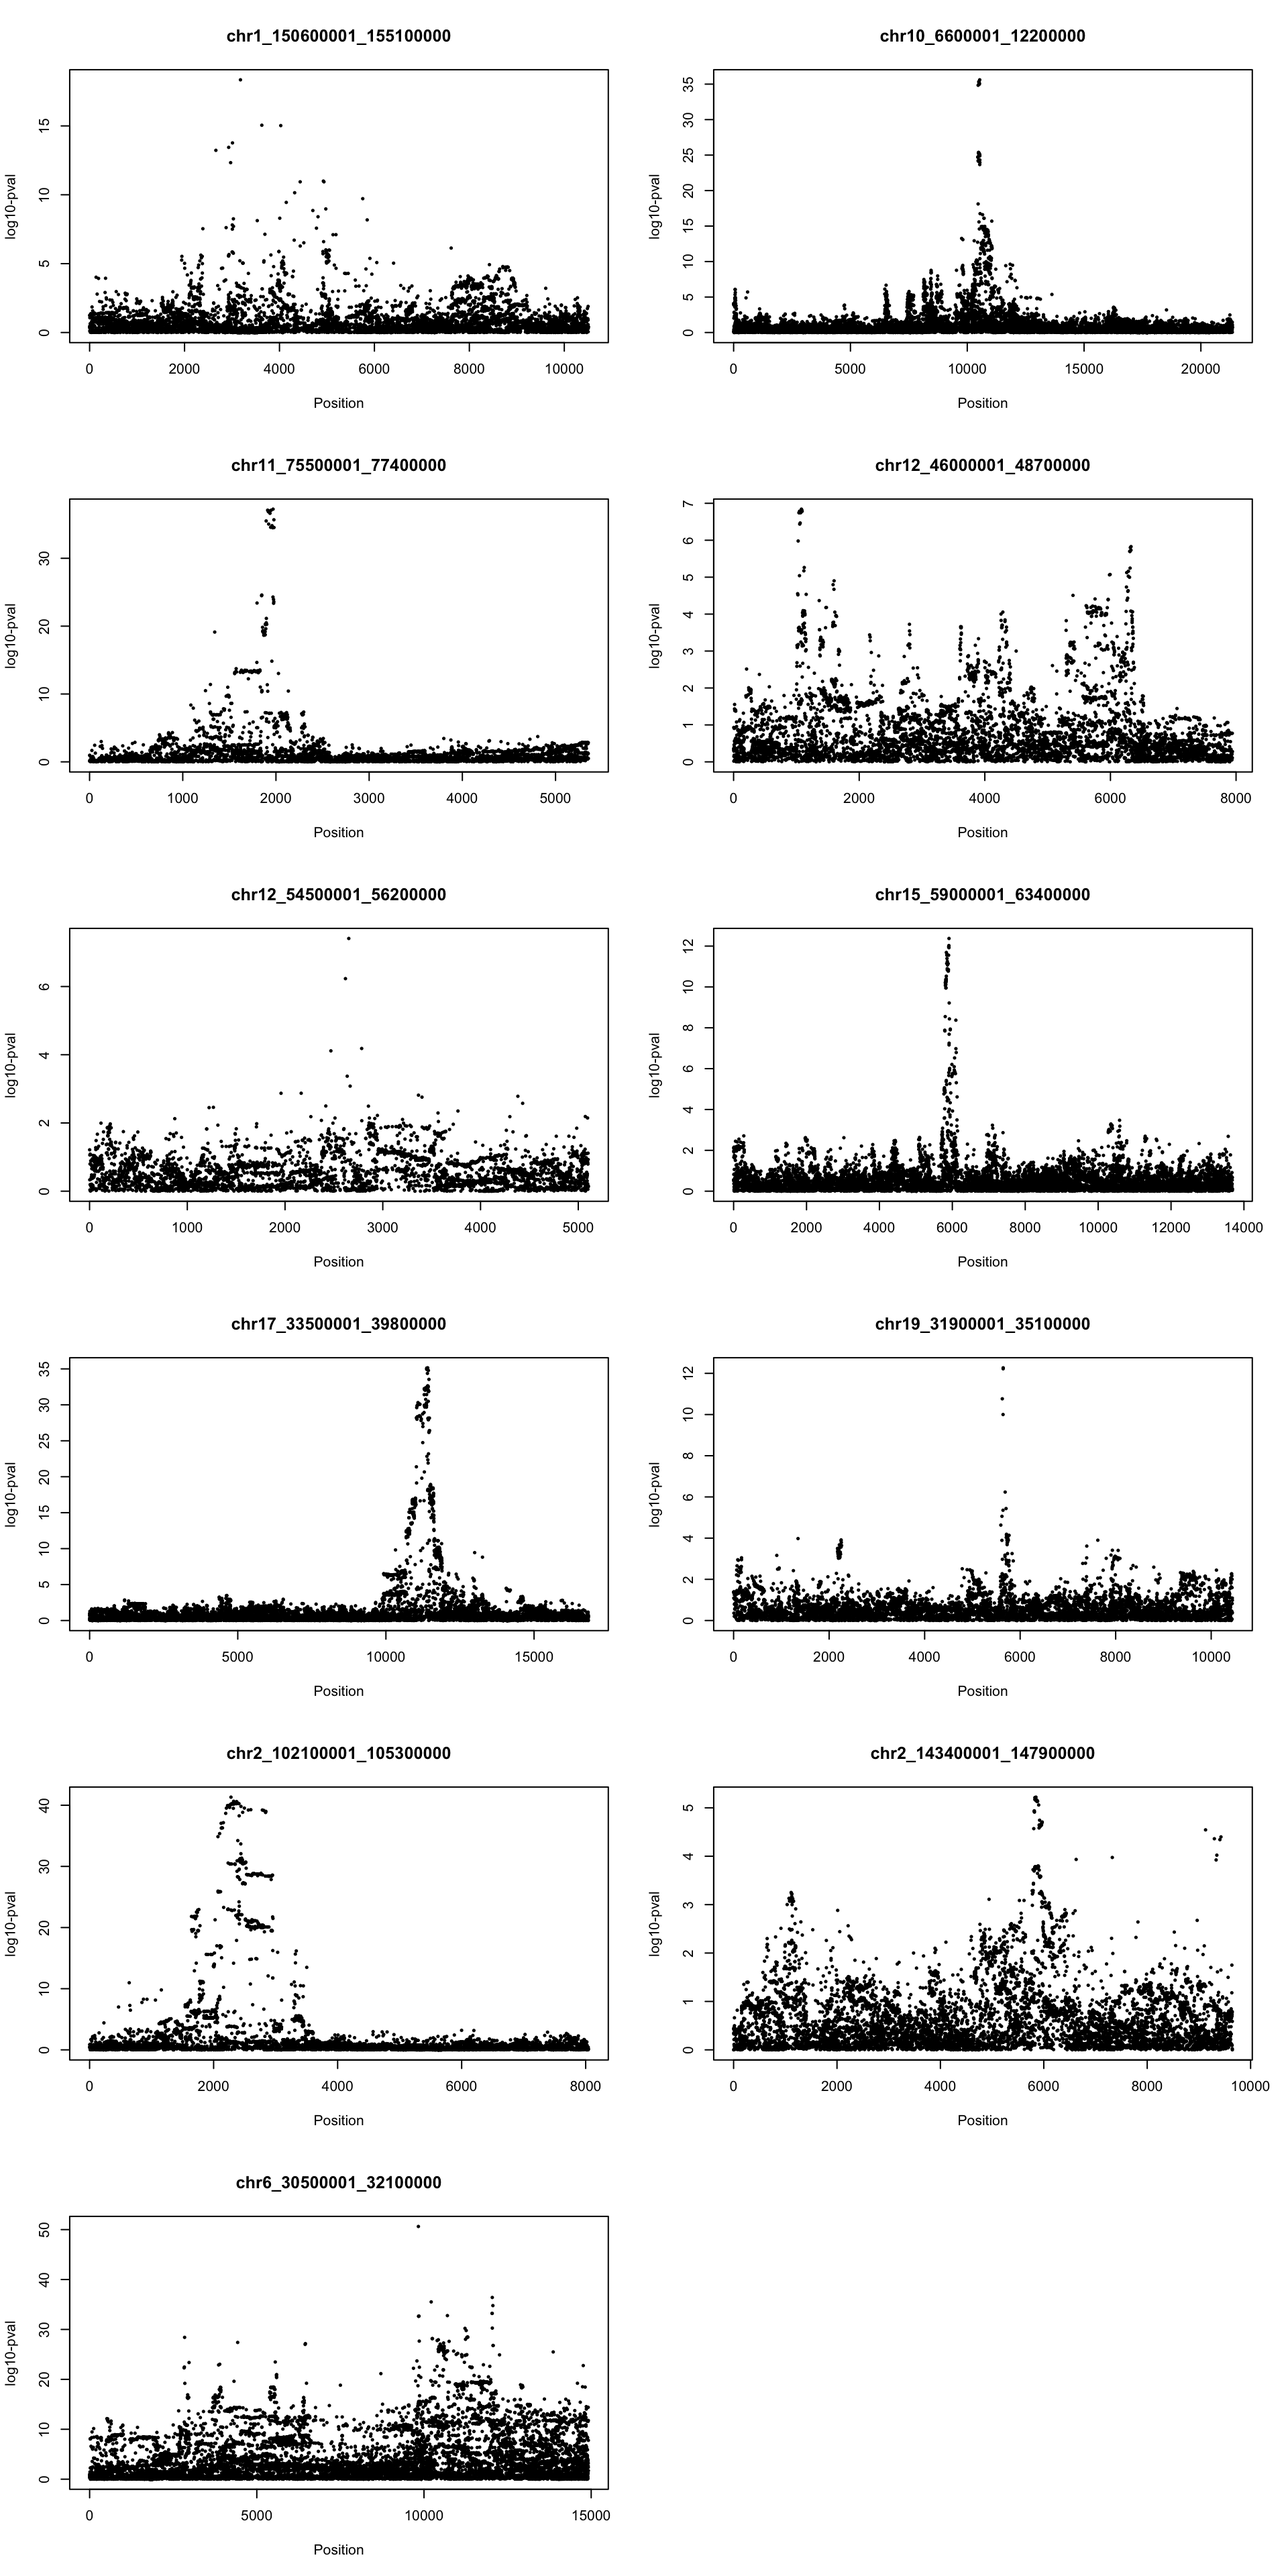
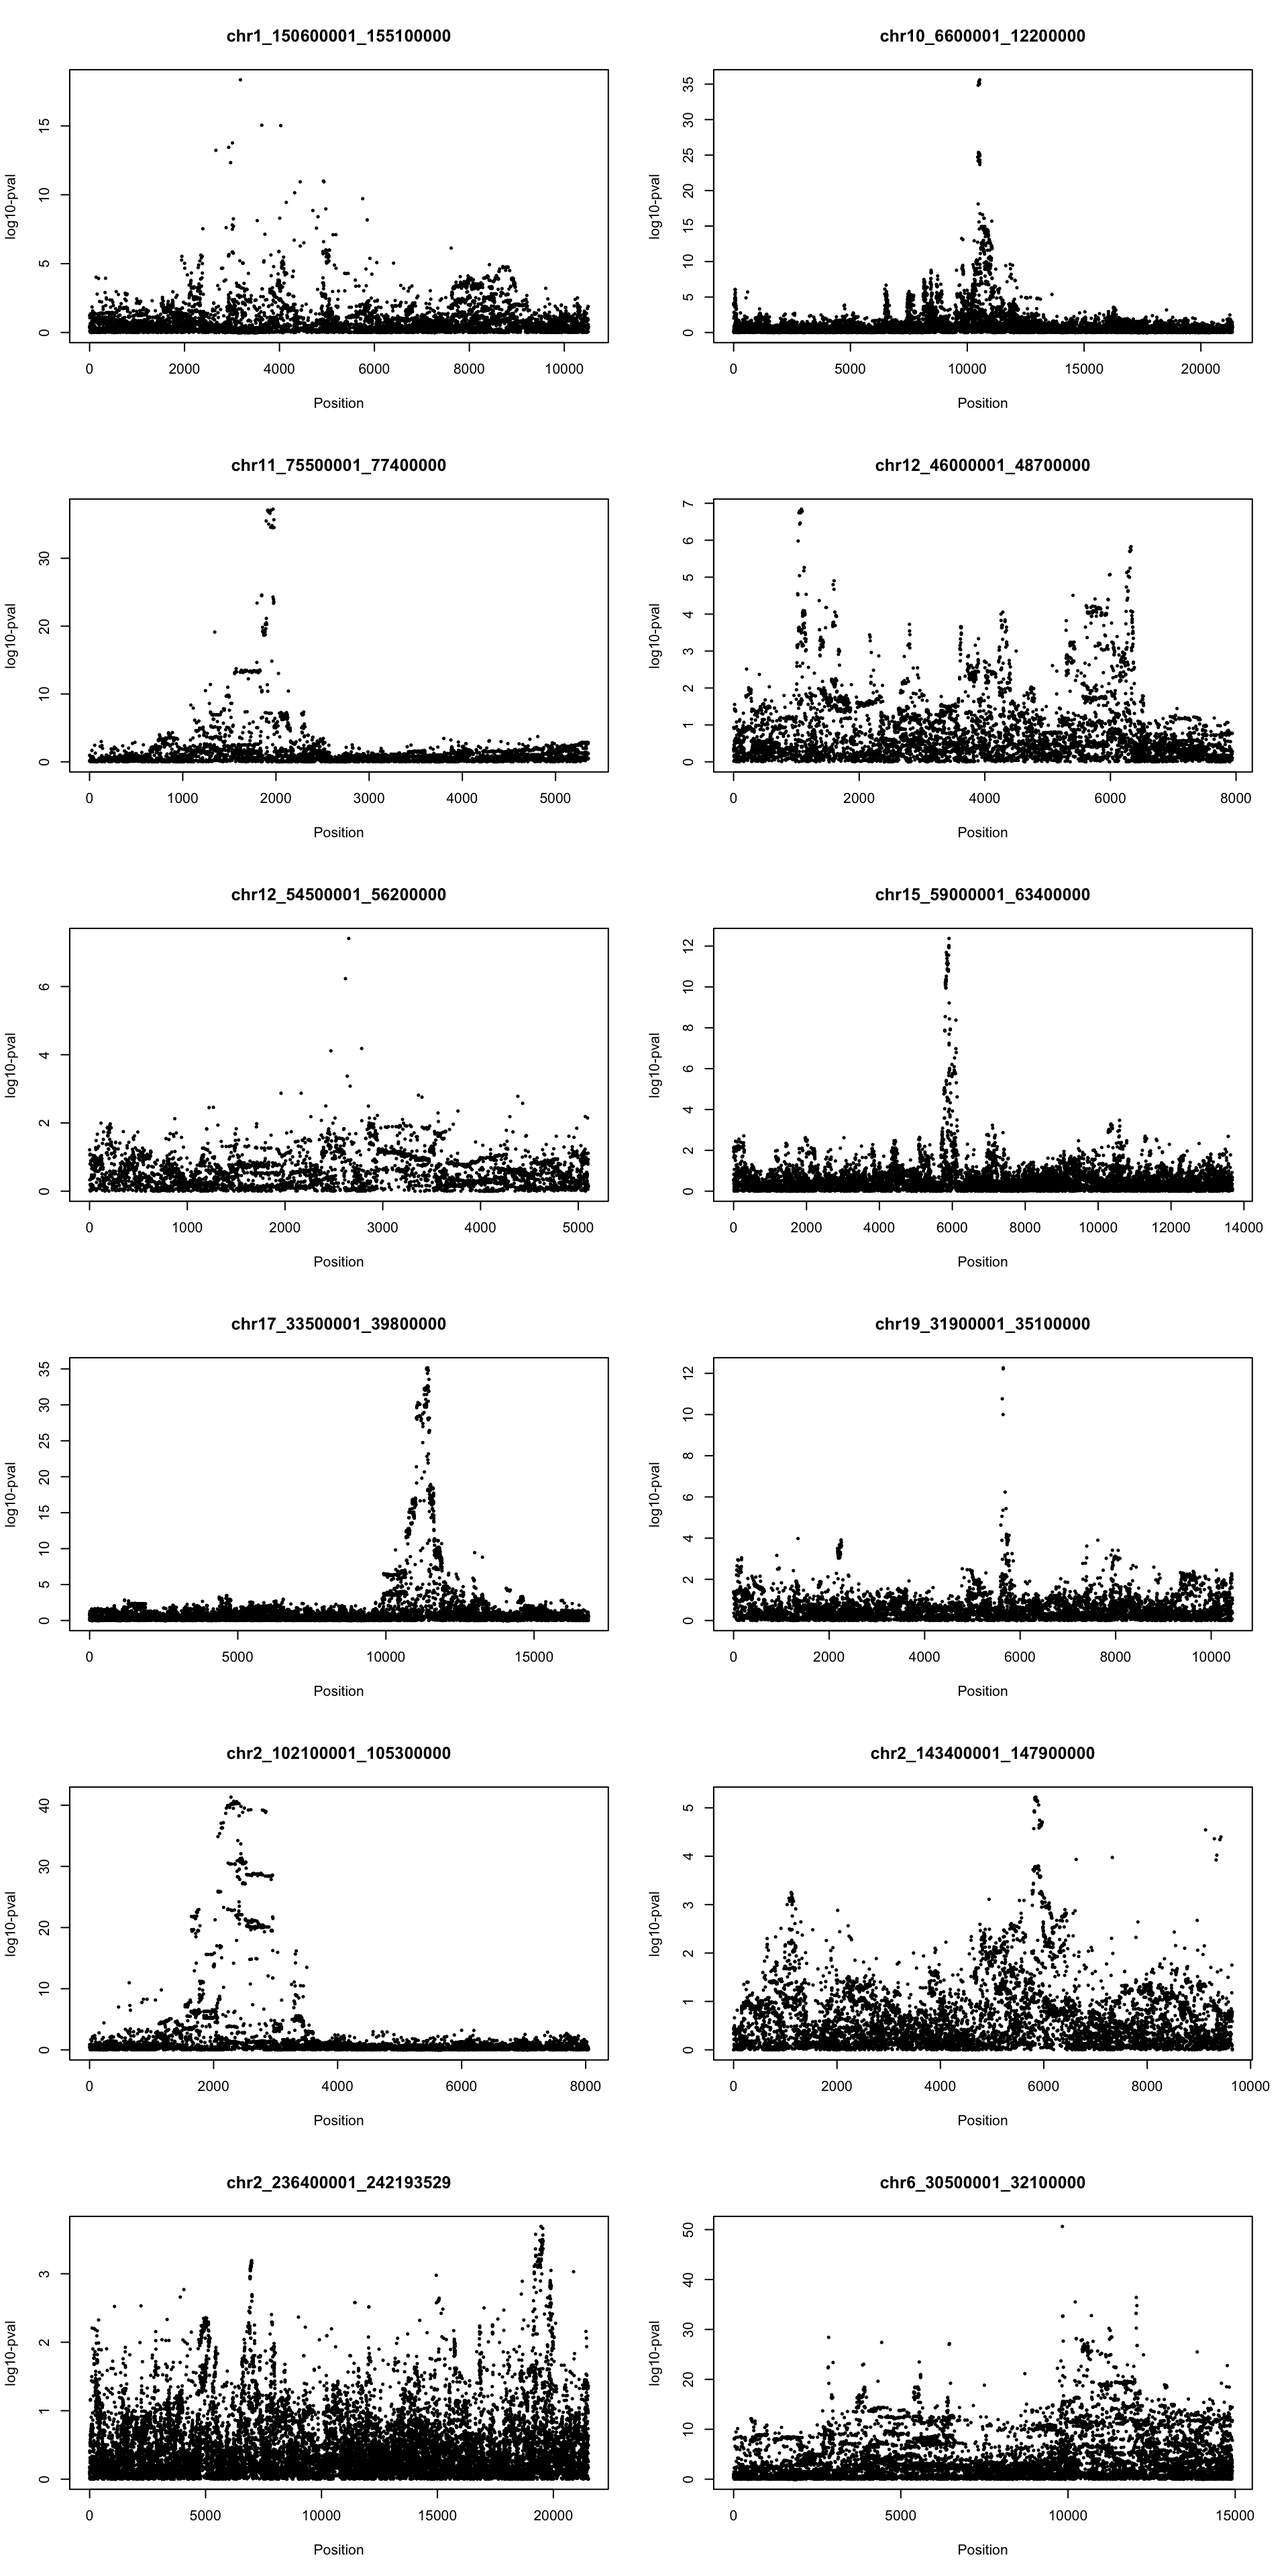
Build site.

diff --git a/docs/gwas_asthma.html b/docs/gwas_asthma.html
@@ -384,7 +384,7 @@ div.tocify {
 <div class="tab-content">
 <div id="summary" class="tab-pane fade in active">
 <p>
-<strong>Last updated:</strong> 2024-06-18
+<strong>Last updated:</strong> 2024-07-03
 </p>
 <p>
 <strong>Checks:</strong> <span class="glyphicon glyphicon-ok text-success" aria-hidden="true"></span> 7 <span class="glyphicon glyphicon-exclamation-sign text-danger" aria-hidden="true"></span> 0
@@ -475,16 +475,16 @@ This reproducible <a href="http://rmarkdown.rstudio.com">R Markdown</a> analysis
 <div class="panel panel-default">
 <div class="panel-heading">
 <p class="panel-title">
-<a data-toggle="collapse" data-parent="#workflowr-checks" href="#strongRepositoryversionstrongahrefhttpsgithubcomyunqiyang0215survivaldataanalysistree25f958e5c96339f80014ccf8f79c730e802cc3e1targetblank25f958ea"> <span class="glyphicon glyphicon-ok text-success" aria-hidden="true"></span> <strong>Repository version:</strong> <a href="https://github.com/yunqiyang0215/survival-data-analysis/tree/25f958e5c96339f80014ccf8f79c730e802cc3e1" target="_blank">25f958e</a> </a>
+<a data-toggle="collapse" data-parent="#workflowr-checks" href="#strongRepositoryversionstrongahrefhttpsgithubcomyunqiyang0215survivaldataanalysistreee93f1a6899b7c8bb9f6c2e4d3d9da0bddac24e23targetblanke93f1a6a"> <span class="glyphicon glyphicon-ok text-success" aria-hidden="true"></span> <strong>Repository version:</strong> <a href="https://github.com/yunqiyang0215/survival-data-analysis/tree/e93f1a6899b7c8bb9f6c2e4d3d9da0bddac24e23" target="_blank">e93f1a6</a> </a>
 </p>
 </div>
[2 lines of base64/hex data omitted]
 <div class="panel-body">
 <p>
 Great! You are using Git for version control. Tracking code development and connecting the code version to the results is critical for reproducibility.
 </p>
 <p>
-The results in this page were generated with repository version <a href="https://github.com/yunqiyang0215/survival-data-analysis/tree/25f958e5c96339f80014ccf8f79c730e802cc3e1" target="_blank">25f958e</a>. See the <em>Past versions</em> tab to see a history of the changes made to the R Markdown and HTML files.
+The results in this page were generated with repository version <a href="https://github.com/yunqiyang0215/survival-data-analysis/tree/e93f1a6899b7c8bb9f6c2e4d3d9da0bddac24e23" target="_blank">e93f1a6</a>. See the <em>Past versions</em> tab to see a history of the changes made to the R Markdown and HTML files.
 </p>
 <p>
 Note that you need to be careful to ensure that all relevant files for the analysis have been committed to Git prior to generating the results (you can use <code>wflow_publish</code> or <code>wflow_git_commit</code>). workflowr only checks the R Markdown file, but you know if there are other scripts or data files that it depends on. Below is the status of the Git repository when the results were generated:
@@ -494,9 +494,7 @@ Ignored files:
     Ignored:    .DS_Store
     Ignored:    .Rhistory
     Ignored:    .Rproj.user/
-
-Unstaged changes:
-    Deleted:    analysis/logistic_gwas_asthma.Rmd
+    Ignored:    analysis/figure/
 
 </code></pre>
 <p>
@@ -535,6 +533,40 @@ Message
 </tr>
 </thead>
 <tbody>
+<tr>
+<td>
+Rmd
+</td>
+<td>
+<a href="https://github.com/yunqiyang0215/survival-data-analysis/blob/e93f1a6899b7c8bb9f6c2e4d3d9da0bddac24e23/analysis/gwas_asthma.Rmd" target="_blank">e93f1a6</a>
+</td>
+<td>
+yunqiyang0215
+</td>
+<td>
+2024-07-03
+</td>
+<td>
+wflow_publish("analysis/gwas_asthma.Rmd")
+</td>
+</tr>
+<tr>
+<td>
+html
+</td>
+<td>
+<a href="https://rawcdn.githack.com/yunqiyang0215/survival-data-analysis/7c1eda43054c992b1ba223f994597fd7e5e2efe1/docs/gwas_asthma.html" target="_blank">7c1eda4</a>
+</td>
+<td>
+yunqiyang0215
+</td>
+<td>
+2024-06-18
+</td>
+<td>
+Build site.
+</td>
+</tr>
 <tr>
 <td>
 Rmd
@@ -786,6 +818,8 @@ wflow_publish("analysis/gwas_asthma.Rmd")
 <li><p>Logistic gwas result for all asthma, childhood asthma and adulthood asthma</p></li>
 <li><p>Survival gwas result for all asthma, childhood asthma and adulthood asthma</p></li>
 <li><p>Compare logistic and survival gwas on all asthma</p></li>
+<li><p>Compare logistic and survival gwas on COA</p></li>
+<li><p>Compare logistic and survival gwas on AOA</p></li>
 </ol>
 <pre class="r"><code>library(stringr)</code></pre>
 <div id="logistic-gwas" class="section level3">
@@ -930,6 +964,17 @@ Date
 <tbody>
 <tr>
 <td>
+<a href="https://github.com/yunqiyang0215/survival-data-analysis/blob/7c1eda43054c992b1ba223f994597fd7e5e2efe1/docs/figure/gwas_asthma.Rmd/unnamed-chunk-6-1.png" target="_blank">7c1eda4</a>
+</td>
+<td>
+yunqiyang0215
+</td>
+<td>
+2024-06-18
+</td>
+</tr>
+<tr>
+<td>
 <a href="https://github.com/yunqiyang0215/survival-data-analysis/blob/1455c77adaddd0aa8f45c79e5535249c3e039637/docs/figure/gwas_asthma.Rmd/unnamed-chunk-6-1.png" target="_blank">1455c77</a>
 </td>
 <td>
@@ -1001,6 +1046,17 @@ Date
 </tr>
 </thead>
 <tbody>
+<tr>
+<td>
+<a href="https://github.com/yunqiyang0215/survival-data-analysis/blob/7c1eda43054c992b1ba223f994597fd7e5e2efe1/docs/figure/gwas_asthma.Rmd/unnamed-chunk-7-1.png" target="_blank">7c1eda4</a>
+</td>
+<td>
+yunqiyang0215
+</td>
+<td>
+2024-06-18
+</td>
+</tr>
 <tr>
 <td>
 <a href="https://github.com/yunqiyang0215/survival-data-analysis/blob/1455c77adaddd0aa8f45c79e5535249c3e039637/docs/figure/gwas_asthma.Rmd/unnamed-chunk-7-1.png" target="_blank">1455c77</a>
@@ -1091,6 +1147,17 @@ Date
 <tbody>
 <tr>
 <td>
+<a href="https://github.com/yunqiyang0215/survival-data-analysis/blob/7c1eda43054c992b1ba223f994597fd7e5e2efe1/docs/figure/gwas_asthma.Rmd/unnamed-chunk-9-1.png" target="_blank">7c1eda4</a>
+</td>
+<td>
+yunqiyang0215
+</td>
+<td>
+2024-06-18
+</td>
+</tr>
+<tr>
+<td>
 <a href="https://github.com/yunqiyang0215/survival-data-analysis/blob/1455c77adaddd0aa8f45c79e5535249c3e039637/docs/figure/gwas_asthma.Rmd/unnamed-chunk-9-1.png" target="_blank">1455c77</a>
 </td>
 <td>
@@ -1137,6 +1204,64 @@ yunqiyang0215
 </table>
 </div>
 </div>
+</div>
+<div id="compare-logistic-gwas-and-survival-gwas-on-coa" class="section level3">
+<h3>4. Compare logistic gwas and survival gwas on COA</h3>
+<pre class="r"><code>file.logistic &lt;- list.files(path=&quot;/Users/nicholeyang/Downloads/survivalsusie/data/gwas_logistic_out/coa&quot;, pattern = &quot;\\.glm\\.logistic$&quot;, full.names = TRUE)
+file.survival &lt;- list.files(path = &quot;/Users/nicholeyang/Downloads/survivalsusie/result/gwas_surv&quot;, pattern = &quot;^coa.*\\.rds$&quot;, full.names = TRUE)</code></pre>
+<pre class="r"><code>par(mfrow = c(6,2))
+
+pattern &lt;- &quot;chr[0-9XYM]+_[0-9]+_[0-9]+&quot;
+for (i in 1:length(file.survival)){
+  region = file.survival[i]
+  region_name = str_extract(region, pattern)
+
+  path.logistic = paste0(&quot;/Users/nicholeyang/Downloads/survivalsusie/data/gwas_logistic_out/coa/gwas_&quot;, 
+                         region_name, &quot;.asthma_coa.glm.logistic&quot;)
+  
+  # read in gwas results
+  gwas.logistic = read.csv(path.logistic, header = TRUE, sep = &quot;\t&quot;)
+  gwas.survival = data.frame(readRDS(region))
+  
+  # merge two datasets
+  snp_ids = sapply(rownames(gwas.survival), function(x) unlist(strsplit(x, &quot;_&quot;))[1])
+  gwas.survival$ID = snp_ids
+  dat = merge(gwas.logistic, gwas.survival, by = &quot;ID&quot;)
+  plot(dat$POS, -log10(dat$P), pch = 20, cex = 0.5, main = region_name, ylab = &quot;log10-pval&quot;, xlab = &quot;Position&quot;, ylim = c(0, max(-log10(dat$P), -log10(dat$p.value.spa), na.rm = TRUE) + 1), col = &quot;#de2d26&quot;)
+  points(dat$POS, -log10(dat$p.value.spa), pch = 20, cex = 0.5)
+  
+  legend(&quot;topright&quot;, legend = c(&quot;logistic.gwas&quot;, &quot;survival.gwas&quot;), col = c(&quot;#de2d26&quot;, 1), pch = 20)
+}</code></pre>
+<p><img src="figure/gwas_asthma.Rmd/unnamed-chunk-11-1.png" width="960" style="display: block; margin: auto;" /></p>
+</div>
+<div id="compare-logistic-gwas-and-survival-gwas-on-aoa" class="section level3">
+<h3>5. Compare logistic gwas and survival gwas on AOA</h3>
+<pre class="r"><code>file.logistic &lt;- list.files(path=&quot;/Users/nicholeyang/Downloads/survivalsusie/data/gwas_logistic_out/aoa&quot;, pattern = &quot;\\.glm\\.logistic$&quot;, full.names = TRUE)
+file.survival &lt;- list.files(path = &quot;/Users/nicholeyang/Downloads/survivalsusie/result/gwas_surv&quot;, pattern = &quot;^aoa.*\\.rds$&quot;, full.names = TRUE)</code></pre>
+<pre class="r"><code>par(mfrow = c(6,2))
+
+pattern &lt;- &quot;chr[0-9XYM]+_[0-9]+_[0-9]+&quot;
+for (i in 1:length(file.survival)){
+  region = file.survival[i]
+  region_name = str_extract(region, pattern)
+
+  path.logistic = paste0(&quot;/Users/nicholeyang/Downloads/survivalsusie/data/gwas_logistic_out/aoa/gwas_&quot;, 
+                         region_name, &quot;.asthma_aoa.glm.logistic&quot;)
+  
+  # read in gwas results
+  gwas.logistic = read.csv(path.logistic, header = TRUE, sep = &quot;\t&quot;)
+  gwas.survival = data.frame(readRDS(region))
+  
+  # merge two datasets
+  snp_ids = sapply(rownames(gwas.survival), function(x) unlist(strsplit(x, &quot;_&quot;))[1])
+  gwas.survival$ID = snp_ids
+  dat = merge(gwas.logistic, gwas.survival, by = &quot;ID&quot;)
+  plot(dat$POS, -log10(dat$P), pch = 20, cex = 0.5, main = region_name, ylab = &quot;log10-pval&quot;, xlab = &quot;Position&quot;, ylim = c(0, max(-log10(dat$P), -log10(dat$p.value.spa), na.rm = TRUE) + 1), col = &quot;#de2d26&quot;)
+  points(dat$POS, -log10(dat$p.value.spa), pch = 20, cex = 0.5)
+  
+  legend(&quot;topright&quot;, legend = c(&quot;logistic.gwas&quot;, &quot;survival.gwas&quot;), col = c(&quot;#de2d26&quot;, 1), pch = 20)
+}</code></pre>
+<p><img src="figure/gwas_asthma.Rmd/unnamed-chunk-13-1.png" width="960" style="display: block; margin: auto;" /></p>
 <br>
 <p>
 <button type="button" class="btn btn-default btn-workflowr btn-workflowr-sessioninfo" data-toggle="collapse" data-target="#workflowr-sessioninfo" style="display: block;">
